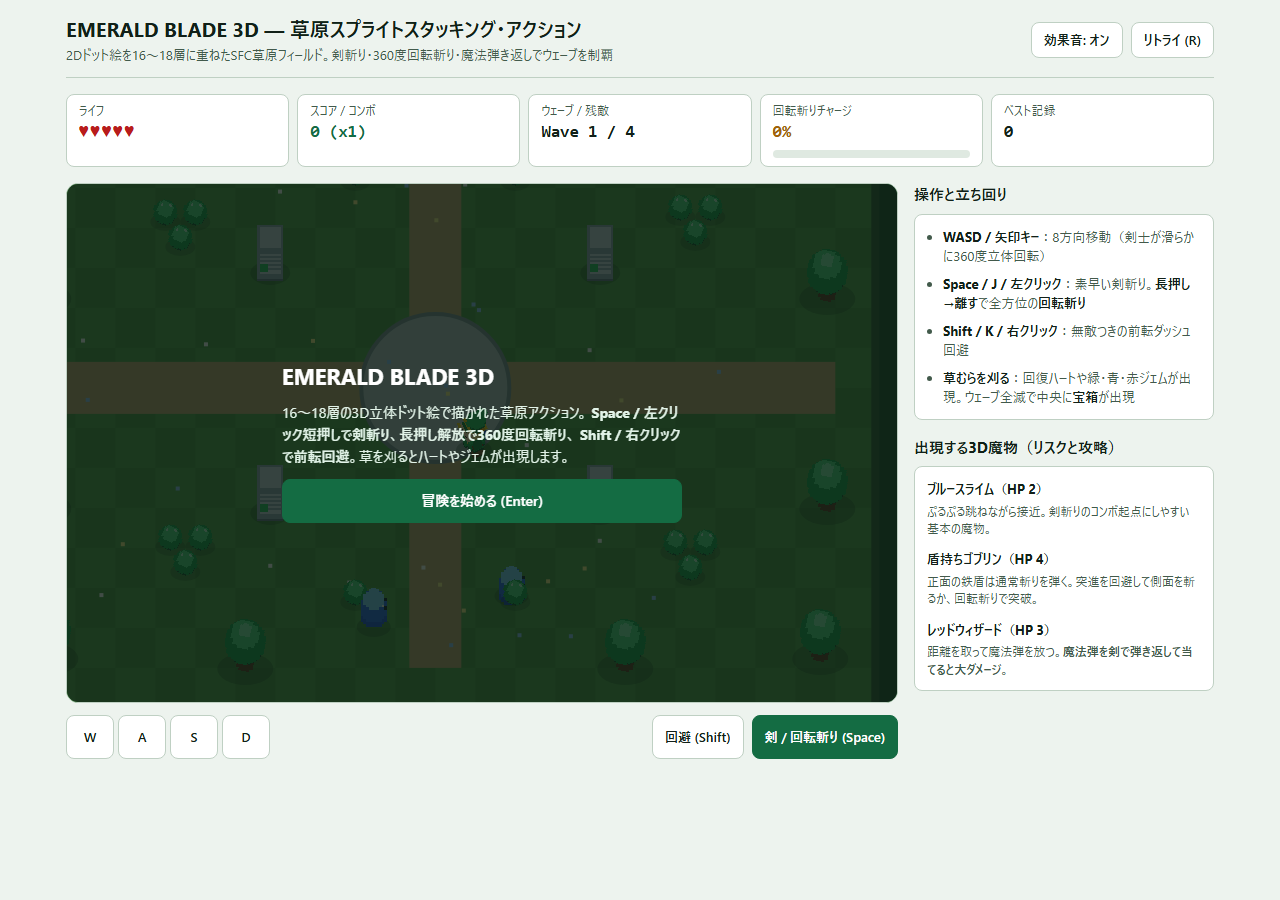
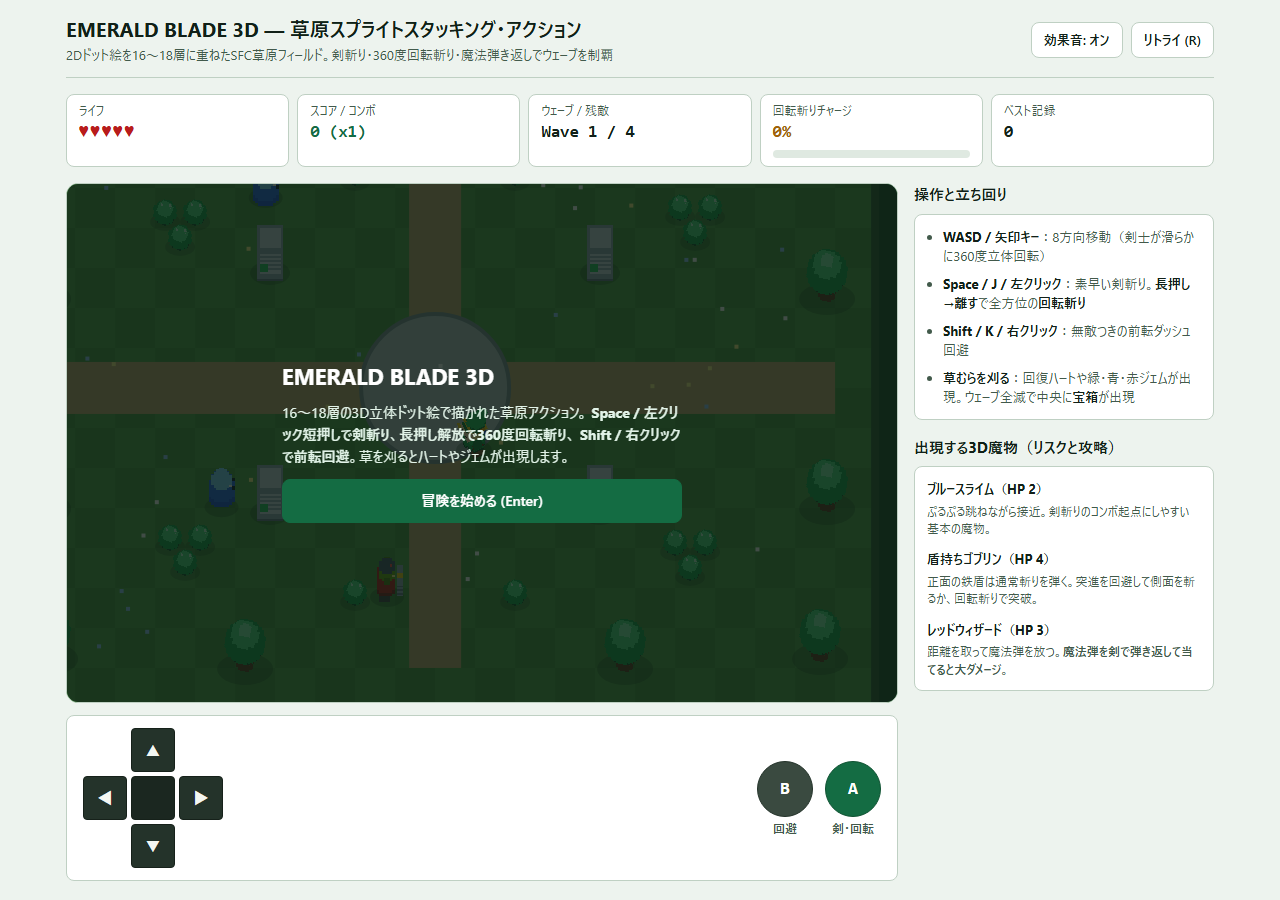
Update touch controls to Famicom-style D-pad and B/A button layout

diff --git a/index.html b/index.html
@@ -313,36 +313,114 @@
 
     .touch-controls {
       display: flex;
-      flex-wrap: wrap;
       align-items: center;
       justify-content: space-between;
-      gap: 8px;
+      gap: 16px;
+      padding: 12px 16px;
+      background-color: var(--surface);
+      border: 1px solid var(--border);
+      border-radius: var(--radius-md);
+      user-select: none;
     }
 
-    .touch-pad {
-      display: flex;
-      flex-wrap: wrap;
+    .dpad-grid {
+      display: grid;
+      grid-template-columns: repeat(3, 44px);
+      grid-template-rows: repeat(3, 44px);
       gap: 4px;
+      flex-shrink: 0;
     }
 
-    .touch-actions {
-      display: flex;
-      flex-wrap: wrap;
-      gap: 8px;
-    }
-
-    .touch-btn {
-      min-width: 48px;
-      min-height: 44px;
-      padding: 8px 12px;
-      font-size: 13px;
+    .dpad-btn {
+      width: 44px;
+      height: 44px;
+      padding: 0;
+      font-size: 16px;
+      line-height: 1;
+      border-radius: var(--radius-sm);
+      background-color: #24332a;
+      border-color: #16211a;
+      color: #f4f7f2;
       touch-action: manipulation;
     }
 
-    .touch-btn.is-active {
-      background-color: var(--accent);
-      border-color: var(--accent);
+    .dpad-up {
+      grid-column: 2;
+      grid-row: 1;
+    }
+
+    .dpad-left {
+      grid-column: 1;
+      grid-row: 2;
+    }
+
+    .dpad-center {
+      grid-column: 2;
+      grid-row: 2;
+      border-radius: var(--radius-sm);
+      background-color: #1b2720;
+      border: 1px solid #16211a;
+    }
+
+    .dpad-right {
+      grid-column: 3;
+      grid-row: 2;
+    }
+
+    .dpad-down {
+      grid-column: 2;
+      grid-row: 3;
+    }
+
+    .ab-pad {
+      display: flex;
+      align-items: center;
+      gap: 12px;
+      flex-shrink: 0;
+    }
+
+    .ab-slot {
+      display: flex;
+      flex-direction: column;
+      align-items: center;
+      gap: 4px;
+    }
+
+    .ab-btn {
+      width: 56px;
+      height: 56px;
+      padding: 0;
+      border-radius: 999px;
+      font-family: var(--font-mono);
+      font-size: 18px;
+      font-weight: 700;
+      touch-action: manipulation;
+    }
+
+    .ab-btn-b {
+      background-color: #3a4a40;
+      border-color: #24332a;
       color: #ffffff;
+    }
+
+    .ab-btn-a {
+      background-color: var(--accent);
+      border-color: var(--accent-hover);
+      color: #ffffff;
+    }
+
+    .ab-caption {
+      font-size: 12px;
+      font-weight: 700;
+      color: var(--ink-muted);
+      line-height: 1.2;
+    }
+
+    .dpad-btn.is-active,
+    .ab-btn.is-active {
+      background-color: var(--gold);
+      border-color: #8a5a05;
+      color: #141c17;
     }
 
     .side-col {
@@ -436,14 +514,28 @@
         min-height: 240px;
       }
 
-      .touch-pad,
-      .touch-actions {
-        width: 100%;
+      .touch-controls {
+        padding: 8px 12px;
+        gap: 8px;
       }
 
-      .touch-btn {
-        flex: 1;
-        min-width: 0;
+      .dpad-grid {
+        grid-template-columns: repeat(3, 40px);
+        grid-template-rows: repeat(3, 40px);
+      }
+
+      .dpad-btn {
+        width: 40px;
+        height: 40px;
+      }
+
+      .ab-pad {
+        gap: 8px;
+      }
+
+      .ab-btn {
+        width: 52px;
+        height: 52px;
       }
     }
   </style>
@@ -535,16 +627,23 @@
           </div>
         </div>
 
-        <div class="touch-controls" aria-label="タッチ・クリック操作">
-          <div class="touch-pad" role="group" aria-label="移動ボタン">
-            <button type="button" class="btn touch-btn" id="btnUp" aria-label="上へ移動">W</button>
-            <button type="button" class="btn touch-btn" id="btnLeft" aria-label="左へ移動">A</button>
-            <button type="button" class="btn touch-btn" id="btnDown" aria-label="下へ移動">S</button>
-            <button type="button" class="btn touch-btn" id="btnRight" aria-label="右へ移動">D</button>
+        <div class="touch-controls" aria-label="ファミコン風コントローラー操作">
+          <div class="dpad-grid" role="group" aria-label="十字キー">
+            <button type="button" class="btn dpad-btn dpad-up" id="btnUp" aria-label="上へ移動">▲</button>
+            <button type="button" class="btn dpad-btn dpad-left" id="btnLeft" aria-label="左へ移動">◀</button>
+            <div class="dpad-center" aria-hidden="true"></div>
+            <button type="button" class="btn dpad-btn dpad-right" id="btnRight" aria-label="右へ移動">▶</button>
+            <button type="button" class="btn dpad-btn dpad-down" id="btnDown" aria-label="下へ移動">▼</button>
           </div>
-          <div class="touch-actions">
-            <button type="button" class="btn touch-btn" id="btnRoll" aria-label="前転ダッシュ回避">回避 (Shift)</button>
-            <button type="button" class="btn btn-primary touch-btn" id="btnAttack" aria-label="剣斬りと長押し回転斬り">剣 / 回転斬り (Space)</button>
+          <div class="ab-pad" role="group" aria-label="B・Aアクションボタン">
+            <div class="ab-slot">
+              <button type="button" class="btn ab-btn ab-btn-b" id="btnRoll" aria-label="Bボタン：前転ダッシュ回避">B</button>
+              <span class="ab-caption">回避</span>
+            </div>
+            <div class="ab-slot">
+              <button type="button" class="btn ab-btn ab-btn-a" id="btnAttack" aria-label="Aボタン：剣斬りと長押し回転斬り">A</button>
+              <span class="ab-caption">剣・回転</span>
+            </div>
           </div>
         </div>
       </section>
